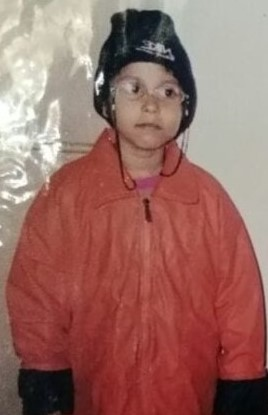
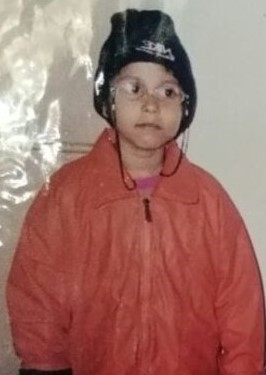
initial5

diff --git a/index.html b/index.html
@@ -43,9 +43,9 @@
   <section id="hero">
     <div class="hero container">
       <div>
-        <h1>Many Many, <span></span></h1>
-        <h1>Happy returns of <span></span></h1>
-        <h1>The day <span></span></h1>
+        <h1>Many Many <span></span></h1>
+        <h1>Happy Returns Of <span></span></h1>
+        <h1>The Day <span></span></h1>
         <!-- <a href="read.html" type="button" class="cta">Portfolio</a> -->
         <!-- <button onclick="window.location.href='read.html';" class="cta">Let's Explore</button> -->
         <a href="readme.html" class="cta">Tap ME</a>
@@ -102,7 +102,7 @@
   <!-- Projects Section -->
 
   <div class="album py-5 bg-light mb-5 px-5">
-        <h3 class="section-title"><i><b>Childhood is like being <span>drunk</span>, everyone remembers <span>what you did, expect you</span></i> : )</h3></b>
+        <h3 class="section-title"><i><b>Childhood is like being <span>drunk</span>, everyone remembers <span>what you did, except you</span></i> : )</h3></b>
         <div class="container">
             <div class="row">
                 <div class="col-md-4">
@@ -661,7 +661,7 @@
             <p>Lorem, ipsum dolor sit amet consectetur adipisicing elit. Ad, iusto cupiditate voluptatum impedit unde rem ipsa distinctio illum quae mollitia ut, accusantium eius odio ducimus illo neque atque libero non sunt harum? Ipsum repellat animi, fugit architecto voluptatum odit et!</p>
           </div>
           <div class="project-img">
-            <img src="./img/IMG-20201018-WA0007.jpg" alt="img">
+            <img src="./img/IMG-20201029-WA0002.jpg" alt="img">
           </div>
         </div>
          <div class="project-item">
@@ -702,29 +702,29 @@
       <div><h1 class="section-title">Ooh ro <span>chai! :-)</span></h1></div>
       <div class="contact-items">
         <div class="contact-item">
-          <div class="icon"><a href="https://drive.google.com/file/d/1-D4O9XZnu45BNeGEak40mUxhdJ5qmpeA/view?usp=sharing"><img src="https://img.icons8.com/bubbles/100/000000/phone.png"/></a>
-          </div>
-          <div class="contact-info">
-            <h1>Phone</h1>
-            <h2>+1 234 123 1234</h2>
-            <h2>+1 234 123 1234</h2>
-          </div>
-        </div>
-        <div class="contact-item">
-          <div class="icon"><img src="https://img.icons8.com/bubbles/100/000000/new-post.png"/></div>
-          <div class="contact-info">
-            <h1>Email</h1>
-            <h2>info@gmail.com</h2>
-            <h2>abcd@gmail.com</h2>
+         <!--  <div class="icon"><a href="https://drive.google.com/file/d/1-D4O9XZnu45BNeGEak40mUxhdJ5qmpeA/view?usp=sharing"><img src="https://img.icons8.com/bubbles/100/000000/phone.png"/></a>
+          </div> -->
+          <div class="contact-info"><a href="https://drive.google.com/file/d/1-D4O9XZnu45BNeGEak40mUxhdJ5qmpeA/view?usp=sharing"><img src="./img/circle-cropped.png"/></a>
+            <!-- <h1>Tap</h1> -->
+            <!-- <h2>+1 234 123 1234</h2>
+            <h2>+1 234 123 1234</h2> -->
           </div>
         </div>
         <div class="contact-item">
+         <!--  <div class="icon"><img src="https://img.icons8.com/bubbles/100/000000/new-post.png"/></div> -->
+          <div class="contact-info"><div class="contact-info"><a href="https://drive.google.com/file/d/1-D4O9XZnu45BNeGEak40mUxhdJ5qmpeA/view?usp=sharing"><img src="./img/circle-cropped1.png"/></a>
+           <!--  <h1>Email</h1> -->
+            <!-- <h2>info@gmail.com</h2>
+            <h2>abcd@gmail.com</h2> -->
+          </div>
+        </div>
+        <!-- <div class="contact-item">
           <div class="icon"><img src="https://img.icons8.com/bubbles/100/000000/map-marker.png"/></div>
           <div class="contact-info">
             <h1>Address</h1>
             <h2>Fatikchhari, Chittagong, Bangladesh</h2>
           </div>
-        </div>
+        </div> -->
       </div>
     </div>
   </section>

diff --git a/readme.html b/readme.html
@@ -1,0 +1,16 @@
+<!DOCTYPE html>
+<html>
+<head>
+	<title>2020202020</title>
+</head>
+<style>
+	body 
+	{
+	opacity: center;
+	text-align: center;
+    background-color: #B4CFEC;
+	}
+
+</style>
+<h1>Songe song chai..?? haaa haaa,.. Etao just for show :)<h1>
+</html>
